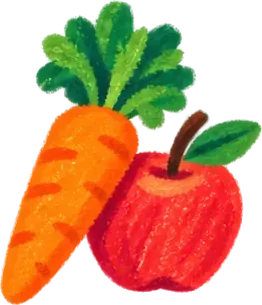
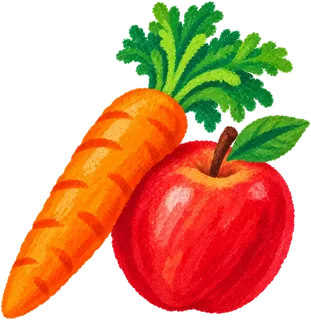
Aisle art: new crayon pictures for Viandes & volailles, Poissonnerie, Fruits & légumes, Boulangerie and Lait & œufs (sources in design/rayons/, webp in public/illustrations/rayons/, sizes in data/aisles.json); old viande-poisson and pain-patisserie webp removed
npm run aisle-art now also reads design/rayons/{id}.webp, which keeps the
ChatGPT sources about ten times lighter than PNG. design/prompts-rayons.md: one
new conversation per picture with the same three references (detail grew over
a long conversation), simpler subjects for Crèmerie & yaourts and Charcuterie.

diff --git a/design/prompts-rayons.md b/design/prompts-rayons.md
@@ -8,9 +8,11 @@ The pictures are shown small: 64 × 56 px in Mon Kaddy, 40 × 38 px in Ordre des
 
 1. The prompts ask for a plain white background: `npm run aisle-art` removes it. Don't ask for transparency in a chat interface: ChatGPT then paints a grey-and-white checkerboard into the picture, which can't be removed. Through the API, GPT Image's `background: transparent` parameter works too (with the same prompt).
 2. Square, 1024 × 1024 or larger, PNG.
-3. Attach two or three of the current pictures as style references, as the reference for both style and level of detail: `public/illustrations/rayons/fruits-legumes.webp`, `epicerie-sucree.webp` and `surgeles.webp`. Once the first new pictures are accepted, use them as references instead, so the series doesn't drift. If a result is still too detailed, reply "simpler: fewer, larger shapes and broader strokes, like the reference pictures" rather than regenerating from scratch.
-4. Each prompt = the **style block** below, followed by the aisle's **subject**. Send them together, with the style block always unchanged.
-5. Save each result as `design/rayons/{id}.png` (the `id` from `data/aisles.json`).
+3. **One new conversation per picture.** In a long ChatGPT conversation each picture builds on the previous ones and gets a little more detailed every time. Start a fresh one for each aisle, so every picture starts from the same prompt and the same references.
+4. Attach the same three references every time, as the reference for both style and level of detail: the simplest accepted pictures, `design/rayons/fruits-legumes.webp`, `poissonnerie.webp` and `lait-oeufs.webp`. Fewer references hold the style better than many: with the whole series attached, the model averages them.
+5. Each prompt = the **style block** below, followed by the aisle's **subject**. Send them together, with the style block always unchanged.
+6. If a result is still too detailed, reply "simpler: fewer, larger shapes and broader strokes, like the reference pictures" once; if that doesn't do it, start a new conversation rather than going on.
+7. Save each result as `design/rayons/{id}.webp` or `.png` (the `id` from `data/aisles.json`).
 
 ## Style block (shared by every prompt)
 
@@ -23,7 +25,7 @@ The picture shows one or two everyday grocery items, seen at a slight three-quar
 
 The background is flat, solid pure white (#FFFFFF), the same white edge to edge, with no table, no ground line, no cast shadow, no halo, no paper texture and no stray marks around the items. Any white or very pale item has a soft grey or tinted shaded edge so it stands apart from the white background. Packaging is generic and has no lettering: where a real product would carry a label, it shows a simple picture of what it contains instead. The picture must stay recognisable when shrunk to 40 pixels wide, so every item has a clear, distinctive outline and a strong colour.
 
-No text, no letters, no numbers, no logos, no brand names, no watermark. Square 1:1.
+No text, no letters, no numbers, no logos, no brand names, no watermark. Match the level of detail of the attached reference pictures; when in doubt, draw less. Square 1:1.
 ```
 
 ## Subjects
@@ -57,7 +59,7 @@ Subject: a glass bottle of milk with a blue cap and a wide blue band around its 
 
 ### cremerie-yaourts: Crèmerie & yaourts (on #E3ECF3)
 ```
-Subject: a round white yoghurt pot with its foil lid peeled half back and a little white yoghurt showing, next to a block of butter half unwrapped from gold foil paper. Dominant colours: white and buttery yellow with gold.
+Subject: a round yoghurt pot with a wide strawberry-red band around it and a simple strawberry drawn on the band, its lid closed, next to a plain rectangular block of yellow butter lying on its paper wrapper, opened out flat and smooth. Dominant colours: strawberry red and buttery yellow.
 ```
 
 ### desserts: Desserts (on #FCE0D0)
@@ -72,7 +74,7 @@ Subject: a round camembert in a light wooden box, with one wedge cut out to show
 
 ### charcuterie: Charcuterie (on #F9D3DD)
 ```
-Subject: a dry saucisson with a dusty white skin and a tied string at one end, with two round slices in front showing deep red meat speckled with white fat, and a folded pink slice of cooked ham beside them. Dominant colours: deep red and pink, with the white skin.
+Subject: a short dry saucisson with a smooth pale skin and a small knot of string at one end, its front end cut to show the deep red inside with a few large white dots of fat, and one round slice lying in front of it. Dominant colours: deep red and creamy white.
 ```
 
 ### produits-cuisines: Produits cuisinés (on #E8EBC9)
@@ -168,4 +170,4 @@ Subject: a brown kraft paper grocery bag, slightly crumpled, filled with a leafy
 ## After generation
 
 - Check each picture at 40 px wide on its aisle colour: it should still read as its aisle and not look like a neighbour (Lait & œufs / Crèmerie / Fromages / Bio & végétal, Conserves / Plats cuisinés, Desserts / Friandises / Épicerie sucrée).
-- `npm run aisle-art` turns `design/rayons/{id}.png` into `public/illustrations/rayons/{id}.webp` and writes the sizes into `data/aisles.json`.
+- `npm run aisle-art` turns `design/rayons/{id}.webp` (or `.png`) into `public/illustrations/rayons/{id}.webp` and writes the sizes into `data/aisles.json`.

diff --git a/DESIGN.md b/DESIGN.md
@@ -346,7 +346,7 @@ Each aisle has a pastel background (section header) and a dot (navigation):
 | Maison & loisirs | #E4E4EC | #7D7F99 |
 | Autres | #EAE5DE | #A39A8E |
 
-The list, order, labels and illustrations of the aisles live in `data/aisles.json`; the tokens are `--kd-aisle-{id}` and `--kd-aisle-{id}-dot`. Each aisle has an object illustration (crayon + gouache, matte, transparent background, no scribble or shadow behind it, so it sits cleanly on the aisle colour), one picture per aisle. The generation prompts (one shared style block, one subject per aisle) are in `design/prompts-rayons.md`; each result goes to `design/rayons/{id}.png`, and `npm run aisle-art` crops it, removes a white background if needed and writes `public/illustrations/rayons/{id}.webp` and its size in `data/aisles.json`. Until then, the aisles created by the split into 27 aisles (October 2026) borrow the closest picture of the old 4×4 sheet `design/rayons-planche.webp` (Poissonnerie the one of Viandes & volailles, Fromages the dairy one…).
+The list, order, labels and illustrations of the aisles live in `data/aisles.json`; the tokens are `--kd-aisle-{id}` and `--kd-aisle-{id}-dot`. Each aisle has an object illustration (crayon + gouache, matte, transparent background, no scribble or shadow behind it, so it sits cleanly on the aisle colour), one picture per aisle. The generation prompts (one shared style block, one subject per aisle) are in `design/prompts-rayons.md`; each result goes to `design/rayons/{id}.webp` (or `.png`), and `npm run aisle-art` crops it, removes a white background if needed and writes `public/illustrations/rayons/{id}.webp` and its size in `data/aisles.json`. Until then, the aisles created by the split into 27 aisles (October 2026) borrow the closest picture of the old 4×4 sheet `design/rayons-planche.webp` (Poissonnerie the one of Viandes & volailles, Fromages the dairy one…).
 
 The same pastels are reused for recipe-card backgrounds and the summary tiles. The Menu food-group dots reuse the aisle dots (vegetables #5A9868, starches #F2C94C, meat & fish #F87A56, dairy #E6CFA0), plus fruit #F49AC1.
 

diff --git a/docs/data-model.md b/docs/data-model.md
@@ -12,7 +12,7 @@
 - If more households join later, nothing changes: the same database, one more document per household.
 
 ## Aisles
-`data/aisles.json` is the single source for the 27 aisles: `id` (the `AisleId` stored everywhere), French `label`, `illustration` (`{ src, width, height }`, made from `design/rayons/{id}.png` by `npm run aisle-art`; until an aisle has its own picture, it borrows the one of a neighbouring aisle). The picture also illustrates the recipes whose first ingredient is in that aisle. Its order is the default `aisleOrder` of a new household. Colours: `--kd-aisle-{id}` / `--kd-aisle-{id}-dot` in `styles/tokens.css`.
+`data/aisles.json` is the single source for the 27 aisles: `id` (the `AisleId` stored everywhere), French `label`, `illustration` (`{ src, width, height }`, made from `design/rayons/{id}.webp` (or `.png`) by `npm run aisle-art`; until an aisle has its own picture, it borrows the one of a neighbouring aisle). The picture also illustrates the recipes whose first ingredient is in that aisle. Its order is the default `aisleOrder` of a new household. Colours: `--kd-aisle-{id}` / `--kd-aisle-{id}-dot` in `styles/tokens.css`.
 
 **Changing aisle ids.** An `aisleId` is stored in `catalog/`, in `households/{hid}.aisleOrder`, in `ingredients/{key}` and in the `extras`. When an aisle is renamed or split: reseed the catalogue (`scripts/seed-catalog.mjs`), then run a migration over the households (the October 2026 split into 27 aisles: `scripts/migrate-aisles.mjs`, `--dry` first), and rename `FETCHED_AT` in `src/lib/catalog.ts` so phones drop their day-old copy of the catalogue. Until then the app treats an id it no longer knows as "Ingrédients à classer" (`knownAisle` in `src/lib/aisles.ts`).
 
